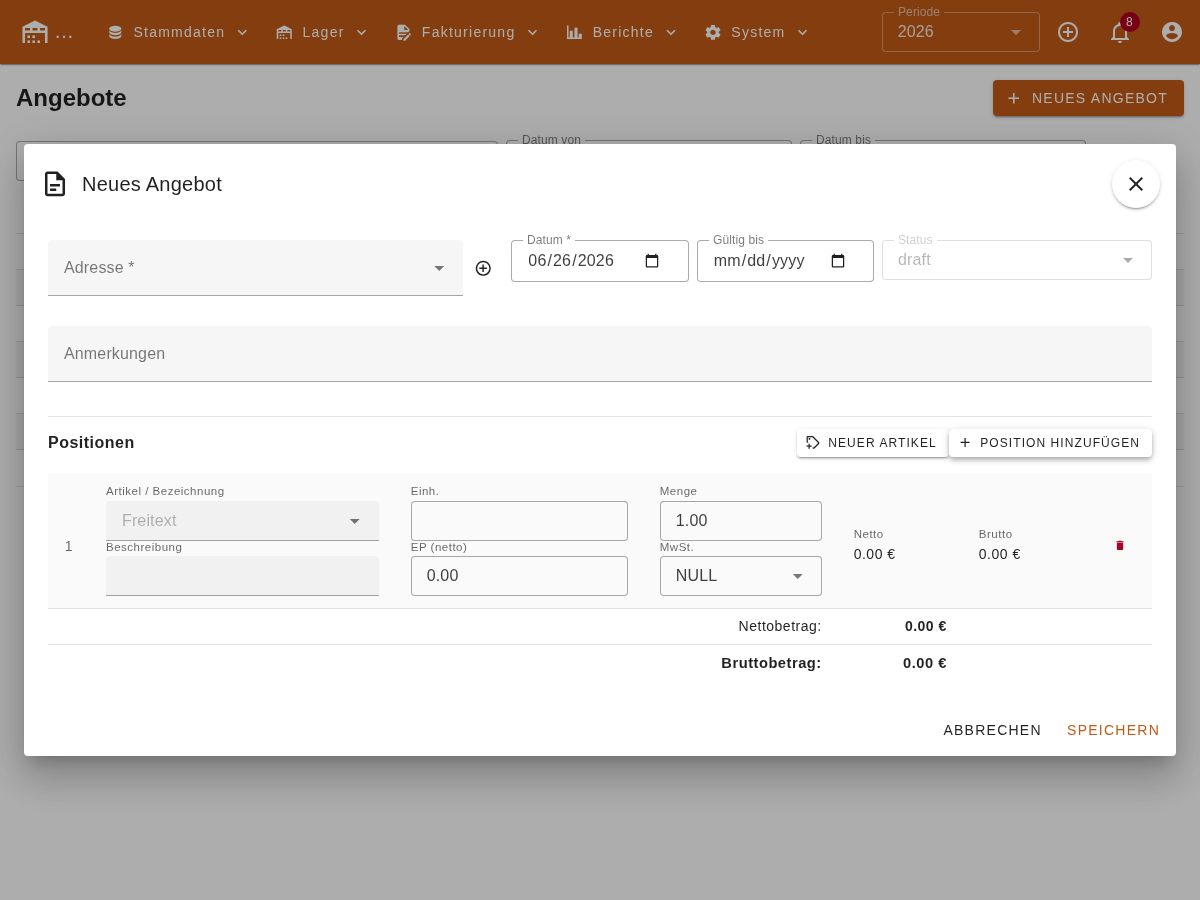
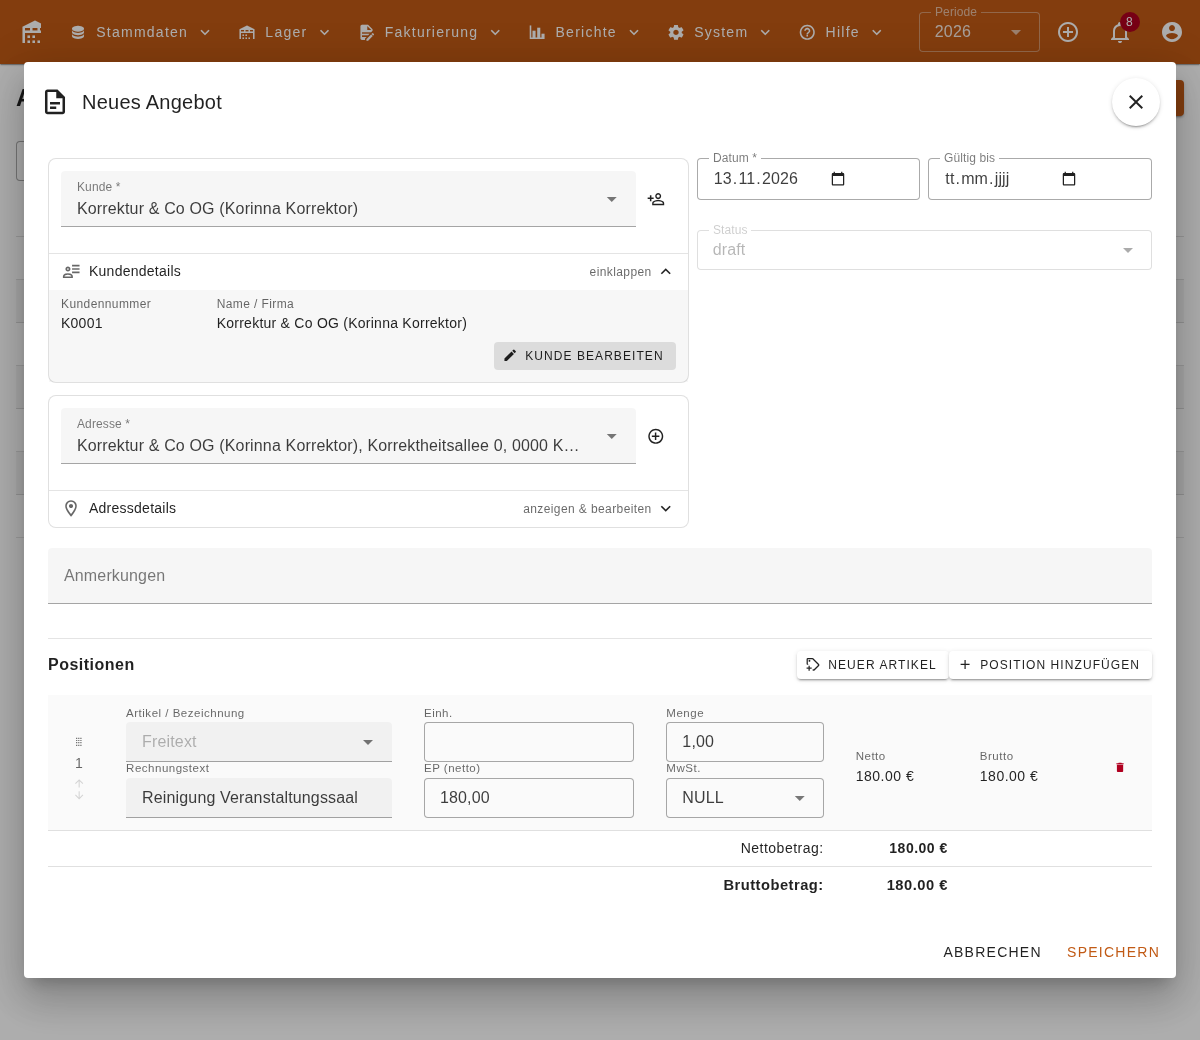
Document the Hilfe menu, number field selection and new dialog layout in the billing handbook
Adds the November changes to the changelog, updates the passages they made
outdated and retakes the offer and invoice dialog screenshots.

All hail our AI overlords!

diff --git a/docs/fakturierung-handbuch.md b/docs/fakturierung-handbuch.md
@@ -120,6 +120,8 @@ Alle Funktionen befinden sich in der oberen Navigationsleiste im Menü **Fakturi
 
 **Kunden** und **Adressen** befinden sich im Menü **Stammdaten**.
 
+Dieses Handbuch ist auch direkt in der Anwendung verfügbar: **Hilfe → Handbuch Fakturierung** öffnet es in einer Seitenleiste rechts neben der aktuellen Ansicht, so dass beim Lesen weitergearbeitet werden kann. Die Breite lässt sich durch Ziehen am linken Rand ändern; über das Symbol **In neuem Tab öffnen** wird das Handbuch als eigene Seite angezeigt. Die Fassung in der Anwendung entspricht immer dem installierten Programmstand.
+
 ![Menü „Fakturierung" aufgeklappt](img/fakturierung/01-fakturierung-menue.png)
 
 > **Berechtigungen:** Die einzelnen Punkte sind nur sichtbar, wenn das Benutzerkonto die jeweilige Berechtigung besitzt (Angebote, Rechnungen, Mahnungen, Kunden, Adressen). Fehlt eine Berechtigung, ist der Menüpunkt ausgeblendet.
@@ -235,7 +237,7 @@ Die Artikelliste zeigt die **Beschreibung** als eigene Spalte an (gekürzt mit T
    - **Gültig bis** – optionales Ablaufdatum des Angebots (darf nicht vor dem Angebotsdatum liegen).
    - **Anmerkungen** – freier Text, erscheint auf dem Dokument.
 
-Unter den Kopfdaten lassen sich **Kundendetails** (Kundennummer, Name, UID, Kontaktdaten) und **Adressdetails** aufklappen. Das **Stift-Symbol** im aufgeklappten Bereich öffnet den Kunden bzw. die Adresse zum Bearbeiten; Änderungen gelten sofort für die Stammdaten.
+Die Felder **Kunde** und **Adresse** stehen jeweils in einem eigenen Rahmen. Darunter lassen sich über die Leiste **Kundendetails** (Kundennummer, Name, UID, Kontaktdaten) bzw. **Adressdetails** mit dem Hinweis **anzeigen & bearbeiten** die Details aufklappen. Die Schaltfläche **Kunde bearbeiten** bzw. **Adresse bearbeiten** im aufgeklappten Bereich öffnet den Datensatz zum Bearbeiten; Änderungen gelten sofort für die Stammdaten. Wird ein anderer Kunde oder eine andere Adresse gewählt, klappen die Details wieder zu.
 
 ![Angebot – Dialog mit Kopfbereich und Positionen](img/fakturierung/07-angebot-dialog.png)
 
@@ -251,7 +253,7 @@ Pro Position werden erfasst:
 | Feld | Bedeutung |
 |------|-----------|
 | **Artikel / Bezeichnung** | Faktura-Artikel auswählen *oder* leer lassen für Freitext. Artikel mit Beschreibung werden im Dropdown als „Name – Beschreibung" angezeigt (Beschreibung auf 50 Zeichen gekürzt). |
-| **Beschreibung** | Freitext (bei Artikeln automatisch befüllt) |
+| **Rechnungstext** | Text der Position auf dem Dokument (bei Artikeln automatisch befüllt) |
 | **Einh.** | Einheit (z. B. Stk., Std.) |
 | **Menge** | Stückzahl/Menge |
 | **EP (netto)** | Einzelpreis netto |
@@ -266,6 +268,8 @@ Eine Position wird über das rote Mülleimer-Symbol am Zeilenende entfernt.
 > **Positionen umsortieren:** Solange das Dokument bearbeitbar ist, kann die Reihenfolge der Positionen per **Drag-and-Drop** an der Positionsnummer oder über die kleinen **Pfeil-hoch/-runter-Symbole** daneben geändert werden. Die Reihenfolge bestimmt die Position („Pos"-Spalte) auf dem gedruckten Dokument.
 
 > **Tipp – Formeln in Zahlenfeldern:** In Zahlenfeldern wie **Menge** oder **EP (netto)** kann statt eines Werts auch eine einfache Rechenformel eingegeben werden, beginnend mit `=` (z. B. `=12*3,5` oder `=(2+3)*4`). Nach Bestätigen mit Enter oder Verlassen des Felds wird das Ergebnis berechnet und eingesetzt. Ist die Formel ungültig, wird `NaN` angezeigt und das Speichern verhindert; beim erneuten Anklicken des Felds erscheint die ursprüngliche Formel wieder zur Korrektur.
+
+> **Tipp – Werte überschreiben:** Beim Anklicken eines Zahlenfelds wird der gesamte Inhalt – Wert oder Formel – markiert. Einfach lostippen ersetzt ihn; ein zweiter Klick setzt den Cursor, um nur einen Teil zu ändern.
 
 4. **Speichern**. Das Angebot wird zunächst als **Entwurf** angelegt.
 
@@ -639,6 +643,9 @@ Kurze Übersicht der Änderungen an der Fakturierung seit der letzten größeren
 
 | Datum | Änderung |
 |-------|----------|
+| November 2026 | Neu: Menü **Hilfe** – dieses Handbuch lässt sich über **Hilfe → Handbuch Fakturierung** direkt in der Anwendung lesen, in einer verstellbaren Seitenleiste oder in einem eigenen Tab, und ist dort immer auf dem aktuellen Stand. Der Punkt **Über** ist vom Menü System nach Hilfe gewandert. |
+| November 2026 | Beim Anklicken eines **Zahlenfelds** (z. B. Menge, Preis) wird der Inhalt markiert, so dass ein neuer Wert oder eine Formel ihn direkt überschreibt. |
+| November 2026 | Im Angebots- und Rechnungsdialog sind **Kunde** und **Adresse** jeweils mit ihren aufklappbaren Details eingerahmt („anzeigen & bearbeiten", Schaltflächen **Kunde bearbeiten** / **Adresse bearbeiten**); beide Dialoge sind jetzt gleich aufgebaut. Das Positionsfeld **Beschreibung** heißt nun **Rechnungstext**. |
 | November 2026 | Neu: **Entwürfe versenden** – Angebote, Rechnungen und Mahnungen können schon als Entwurf per E-Mail verschickt werden, z. B. zur Prüfung durch den Kunden. Sie bleiben dabei Entwurf und erhalten keine Nummer. |
 | Oktober 2026 | Neu: Wasserzeichen **ENTWURF** auf jeder Seite noch nicht ausgestellter Angebote, Rechnungen und Mahnungen (Vorschau, Download und Versand). |
 | Oktober 2026 | Behoben: Der **WZ-Abgleich** legte für bereits vorhandene Kunden doppelte Kunden an. Adressen bleiben jetzt bei ihrem bisherigen Kunden. |
